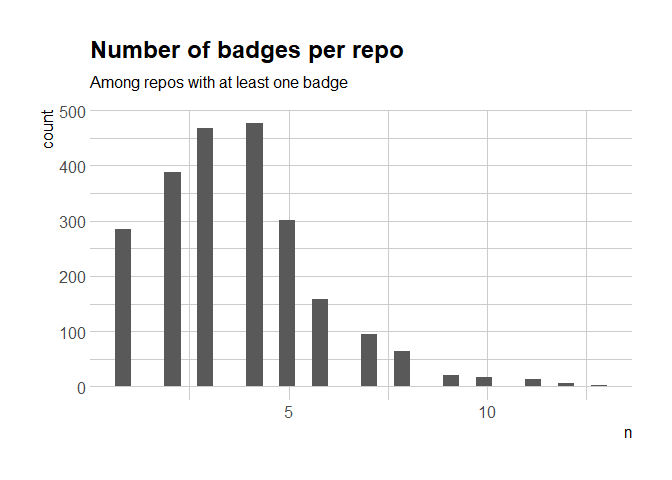
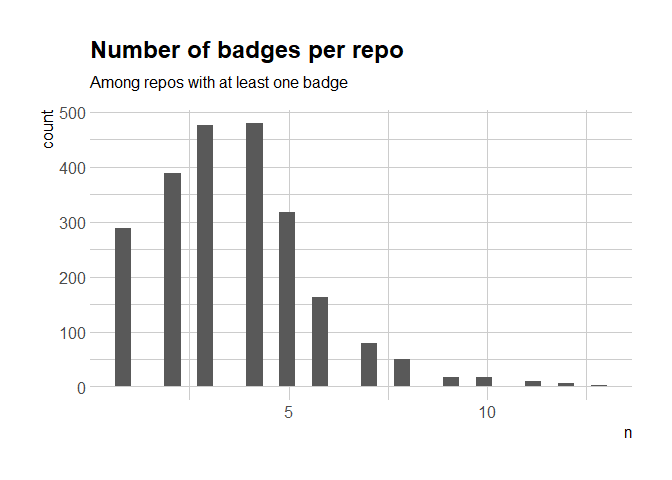
add post

diff --git a/content/technotes/2018-09-10-github-badges.md b/content/technotes/2018-09-10-github-badges.md
@@ -271,14 +271,15 @@ img_info <- dplyr::filter(img_info,
 
 badges <- dplyr::filter(badges,
                         !tolower(image_link) %in% img_info$image_link,
+                        !tolower(image_link) %in% stringr::str_remove(img_info$image_link,
+                                                                      "/$"),
                         !stringr::str_detect(image_link,
-                                                "ropensci\\.org\\/public\\_images\\/"))
+                                             "ropensci\\.org\\/public\\_images\\/"))
 readr::write_csv(badges, "data/aaall_badges.csv")
 ```
 
-Note that at this stage we actually eliminated very few images, about
-twenty, so using badge syntax for images seem quite rare. Don’t judge me
-by my filenaming skills. I was *maybe* a bit too enthusiastic!
+Don’t judge me by my filenaming skills. I was *maybe* a bit too
+enthusiastic!
 
 Analyze badges from CRAN packages
 ---------------------------------
@@ -317,7 +318,7 @@ badges_count %>%
     ## # A tibble: 1 x 1
     ##   median
     ##    <dbl>
-    ## 1      4
+    ## 1      3
 
 ``` r
 library("ggplot2")
@@ -334,21 +335,24 @@ badges_count %>%
 ![number of badges for READMEs with at least one
 (histogram)](/img/blog-images/2018-09-10-github-badges/unnamed-chunk-2-1.png)
 
-The median number of badges is 4, which corresponds to my gut feeling
-that the answer would be “a few”. I have a new question, what’s the repo
-with the most badges?
+The median number of badges is 3, which corresponds to my gut feeling
+that the answer would be “a few”. I have a new question, what are the
+repos with the most badges?
 
 ``` r
-badges_count[1,]
+most_badges <- dplyr::filter(badges_count,
+                             n == max(n)) 
+most_badges
 ```
 
-    ## # A tibble: 1 x 3
-    ##   repo  owner         n
-    ##   <chr> <chr>     <int>
-    ## 1 gpuR  cdeterman    13
+    ## # A tibble: 2 x 3
+    ##   repo     owner               n
+    ##   <chr>    <chr>           <int>
+    ## 1 gpuR     cdeterman          13
+    ## 2 psycho.R neuropsychology    13
 
-You can browse it at <https://github.com/cdeterman/gpuR>. Quite a
-colourful README!
+You can browse them at <https://github.com/cdeterman/gpuR>,
+<https://github.com/neuropsychology/gpuR>.
 
 ### How many unique badges are there?
 
@@ -368,7 +372,7 @@ parsed_image_links %>%
 length(unique_domains)
 ```
 
-    ## [1] 58
+    ## [1] 51
 
 Not *that* many after all, so I’ll print all of them! A special mention
 to <https://github.com/ropensci/cchecksapi#badges> maintained under our
@@ -386,14 +390,12 @@ dmlc.github.io, eddelbuettel.github.io, githubbadges.com,
 githubbadges.herokuapp.com, gitlab.com, hits.dwyl.io, i.imgur.com,
 img.shields.io, jhudatascience.org, joss.theoj.org, mybinder.org,
 popmodels.cancercontrol.cancer.gov, pro-pulsar-193905.appspot.com,
-raw.githubusercontent.com, rclean\_demo.png, readme-example-1.png,
-readme-example-2.png, readme-example-3.png, readme-example-4.png,
-readme-example-5.png, readthedocs.org, ropensci.org, saucelabs.com,
+raw.githubusercontent.com, readthedocs.org, ropensci.org, saucelabs.com,
 semaphoreci.com, travis-ci.com, travis-ci.org,
 user-images.githubusercontent.com, usgs-r.github.io, www.nceas.ucsb.edu,
 www.ohloh.net, www.openhub.net, www.paypal.com, www.r-pkg.org,
-www.rdocumentation.org, www.repostatus.org, www.ropensci.org,
-www.rpackages.io and zenodo.org
+www.rdocumentation.org, www.repostatus.org, www.rpackages.io and
+zenodo.org
 
 ### What are the most common badges?
 
@@ -404,18 +406,18 @@ parsed_image_links %>%
   knitr::kable()
 ```
 
-| domain             |     n|
-|:-------------------|-----:|
-| travis-ci.org      |  1914|
-| www.r-pkg.org      |  1831|
-| cranlogs.r-pkg.org |  1306|
-| img.shields.io     |   889|
-| ci.appveyor.com    |   713|
-| codecov.io         |   672|
-| www.repostatus.org |   243|
-| zenodo.org         |   201|
-| coveralls.io       |   156|
-| ropensci.org       |   135|
+| domain                 |     n|
+|:-----------------------|-----:|
+| travis-ci.org          |  1914|
+| www.r-pkg.org          |  1831|
+| cranlogs.r-pkg.org     |  1306|
+| img.shields.io         |   889|
+| ci.appveyor.com        |   713|
+| codecov.io             |   672|
+| www.repostatus.org     |   243|
+| zenodo.org             |   201|
+| coveralls.io           |   156|
+| www.rdocumentation.org |    85|
 
 Travis CI is the clear winner! Now, “img.shields.io” is a service for
 badges of other things… which?
